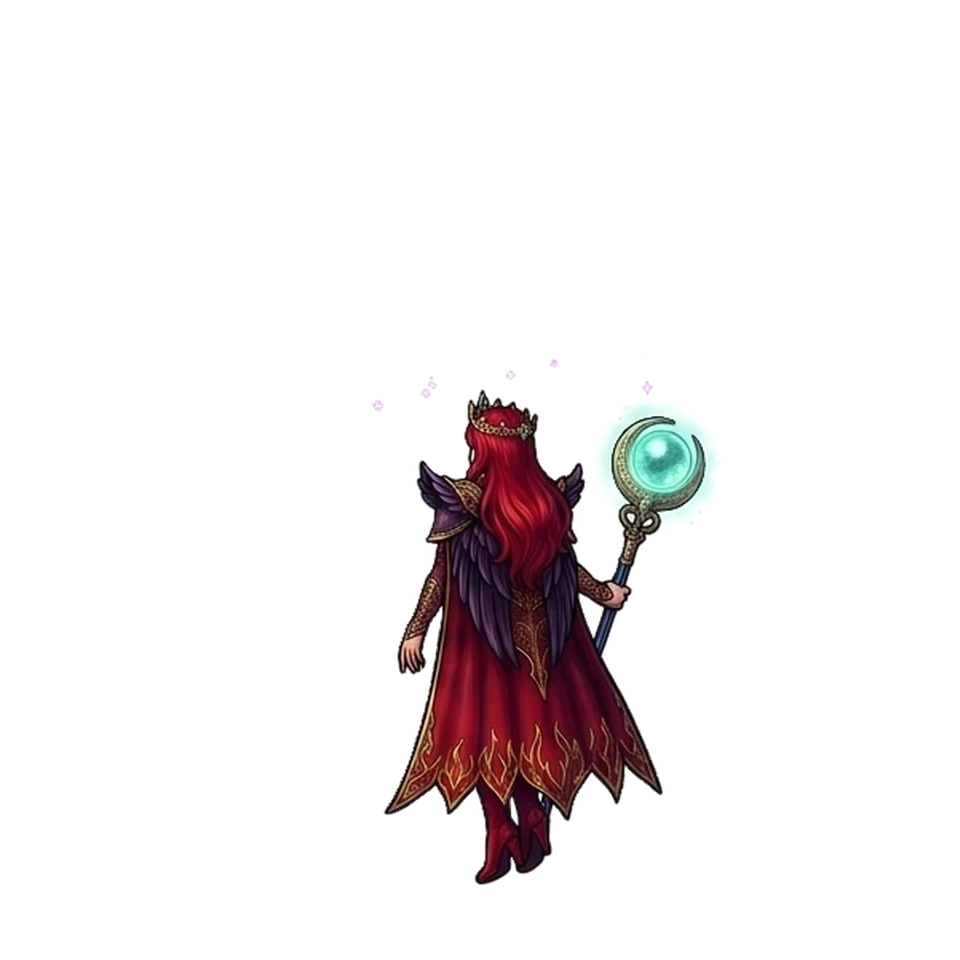
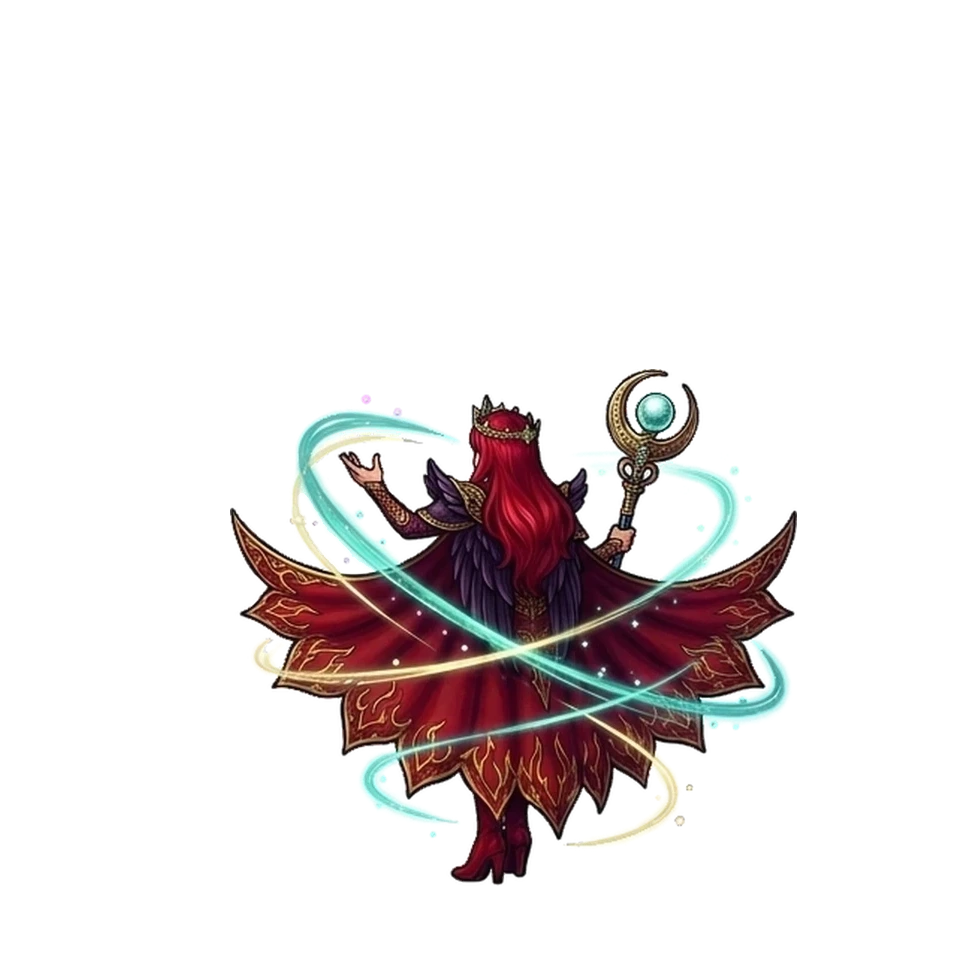
fix(vfx-lab): reorder #052/#042 chant sequences & fix #059 F5 left facing (?v=84)
- #052 Yuni (Summoner): reorder chant frames to [0, 3, 1, 2, 4, 5] for a
  smooth crescendo (idle -> waking orb glow -> raising arm -> wide crimson wing
  cloak + teal swirl -> twin starburst climax -> sparkling cool-down).
- #042 Marin (Priest): swap F2 <-> F3 ([0, 2, 1, 3, 4, 5]) so her left hand
  rises monotonically from down -> low ribbon swirl -> shoulder raise -> high
  halo -> twin starburst -> relaxed cool-down.
- #059 Yuni (Saint) F5: regenerate `chant_4.webp` natively anchored to `nb6_0`
  at matching upright standing height, facing strictly UPPER-LEFT (`↖`), golden
  winged staff left with blazing ice-cyan starburst and solar-gold right burst
  cleanly separated (zero head droop, zero white gap cavities, 0 edge clips).
- Bump cache-bust tag from `?v=83` to `?v=84` in `vfxLab.ts` & `gallery.ts`.

Changed region(s): [[0.2188, 0.375, 0.8438, 0.9375]]

diff --git a/src/gallery.ts b/src/gallery.ts
@@ -1191,7 +1191,7 @@ class MappingGalleryApp {
                   <div>
                     <div class="mono-tag" style="font-size:10px; color:#fde047; margin-bottom:2px;">💥 Crit Cut-In</div>
                     <img
-                      src="assets/vfx_lab/units/u_${String(entry.id).padStart(3, '0')}/cutin.jpg?v=83"
+                      src="assets/vfx_lab/units/u_${String(entry.id).padStart(3, '0')}/cutin.jpg?v=84"
                       loading="lazy"
                       alt="${entry.nameZh} Cut-In"
                       style="width:100%; aspect-ratio:16/9; object-fit:cover; border-radius:5px; border:1px solid #334155; background:#05080f;"
@@ -1200,7 +1200,7 @@ class MappingGalleryApp {
                   <div>
                     <div class="mono-tag" style="font-size:10px; color:#7dd3fc; margin-bottom:2px;">🖼 HD 6-Frame Sheet</div>
                     <img
-                      src="assets/vfx_lab/units/u_${String(entry.id).padStart(3, '0')}/nb6_sheet.jpg?v=83"
+                      src="assets/vfx_lab/units/u_${String(entry.id).padStart(3, '0')}/nb6_sheet.jpg?v=84"
                       loading="lazy"
                       alt="${entry.nameZh} 6-Frame Sheet"
                       style="width:100%; aspect-ratio:16/9; object-fit:contain; border-radius:5px; background:#ffffff; border:1px solid #334155;"

diff --git a/src/ui/vfxLab.ts b/src/ui/vfxLab.ts
@@ -283,7 +283,7 @@ function loadImg(url: string): Promise<HTMLImageElement> {
   });
 }
 
-const VFX_ASSET_VERSION = '?v=83';
+const VFX_ASSET_VERSION = '?v=84';
 
 function enrichUnitMetadataFromGameData(assets: AssetManager, entry: VfxManifestUnitEntry): VfxManifestUnitEntry {
   const dex = assets.gameData.unitDex?.[entry.uid];
